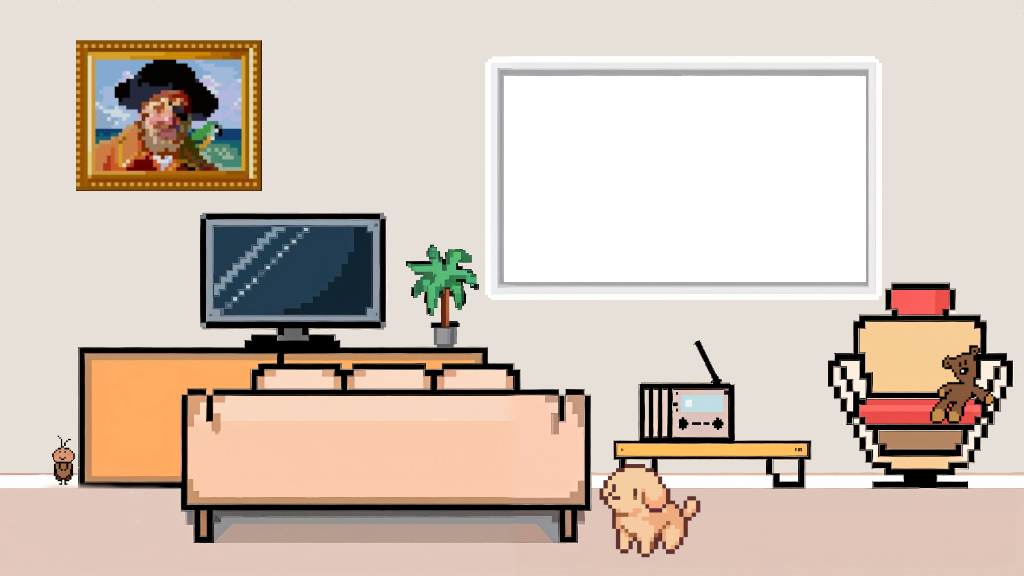
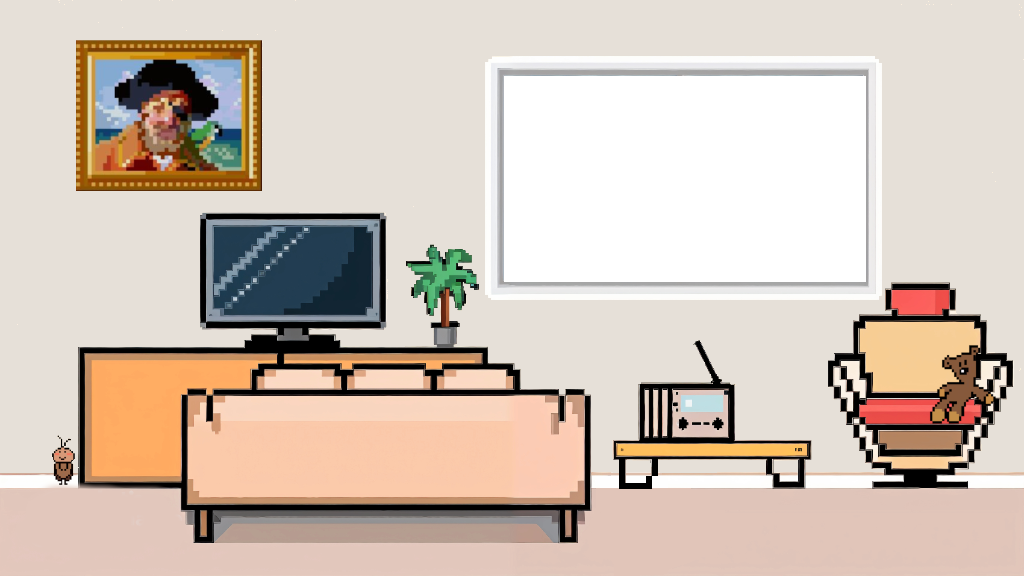
new img for dog and code for dog

Changed region(s): [[0.5625, 0.7812, 0.6875, 0.9688]]

diff --git a/main game code.py b/main game code.py
@@ -129,7 +129,70 @@ class FemaleCharacter(pygame.sprite.Sprite):
                 Female.image = Female.idle[Female.current_image]
             else:
                 Female.image =Female.facing_left[Female.current_image]
-            
+
+
+class dog(pygame.sprite.Sprite):
+    def __init__(dog):
+        pygame.sprite.Sprite.__init__(dog)
+        dog.idle = dog_idle_img
+        dog.walking = dog_walking_img
+        dog.current_img =0
+        dog.image =dog.idle[dog.current_img]
+        dog.rect = dog.image.get_rect()
+        dog.rect.x = random.randint(0,screen_width- dog.rect.width) # the rect will put the top left corner of the rectangle of the dog in this range(SO cannot put screen width as limit)
+        dog.speedx = 3
+        dog.rect.y = 650
+        
+        
+        dog.idlefacing_left =True
+        dog.idlefacing_right= []
+        for i in dog.idle:
+            flipped_img = pygame.transform.flip(i,True,False)
+            dog.idlefacing_right.append(flipped_img)
+
+        dog.walkingfacing_left = True
+        dog.walkingfacing_right = []
+        for i in dog.walking:
+            flipped_img = pygame.transform.flip(i,True,False)
+            dog.walkingfacing_right.append(flipped_img)
+
+        dog.animation_timer =0
+        dog.animation_delay =150 
+        
+
+    def update_dog(dog):
+        current_dog_time = pygame.time.get_ticks()
+        dog_walking= False
+
+        
+        
+
+        if dog_walking :
+            if current_dog_time - dog.animation_timer > dog.animation_delay:
+                dog.animation_timer = current_dog_time
+                dog.current_img +=1
+                if dog.current_img >= len(dog.walking):
+                    dog.current_img =0
+            if dog.walkingfacing_left:
+                    dog.image =dog.walking[dog.current_img]
+            else: 
+                    dog.image = dog.walkingfacing_right[dog.current_img]
+        else:
+            if current_dog_time - dog.animation_timer > dog.animation_delay +25:
+                dog.animation_timer = current_dog_time
+                dog.current_img +=1
+                if dog.current_img >= len(dog.idle):
+                    dog.current_img =0
+            if dog.idlefacing_left:
+                dog.image =dog.idle[dog.current_img]
+            else: 
+                dog.image = dog.idlefacing_right[dog.current_img]
+
+       
+
+
+
+        
 # Load and play background music
 def play_background_music():
     pygame.mixer.init()
@@ -248,6 +311,20 @@ Fcharacter_walking_img =[
     pygame.image.load("Moodify/F-walking/pixil-frame-2.png"),
     pygame.image.load("Moodify/F-walking/pixil-frame-3.png"),
 ]
+
+dog_walking_img =[ 
+    pygame.image.load("Moodify/dog frames/pixil-frame-0.png"),
+    pygame.image.load("Moodify/dog frames/pixil-frame-1.png"),
+    pygame.image.load("Moodify/dog frames/pixil-frame-2.png"),
+    pygame.image.load("Moodify/dog frames/pixil-frame-3.png"),
+]
+
+dog_idle_img =[
+    pygame.image.load("Moodify/dog idle frame/pixil-frame-0.png"),
+    pygame.image.load("Moodify/dog idle frame/pixil-frame-1.png"),
+    pygame.image.load("Moodify/dog idle frame/pixil-frame-2.png"),
+    pygame.image.load("Moodify/dog idle frame/pixil-frame-3.png"),
+]
 #TV and radio img
 TV_mini_games_img =pygame.image.load("Moodify/graphics/mini games interface.png")
 quit_button_img = pygame.image.load("Moodify/graphics/cancel button.png")
@@ -265,6 +342,7 @@ show_text =False
 rain_group = rain_or_not()
 #the female character 
 Female_character=FemaleCharacter()
+dog_character=dog()
 
 #Tv and radio entry
 radio_entry = pygame.Rect(1000, 595, 160, 110) 
@@ -345,6 +423,9 @@ while True:
 
     #background
     screen.blit(background_surface,(0,0))
+
+    dog_character.update_dog()
+    screen.blit(dog_character.image,dog_character.rect)
 
     Female_character.update_character()
     screen.blit(Female_character.image,Female_character.rect)
